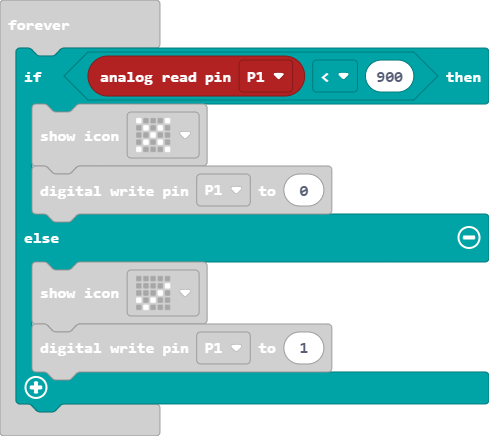
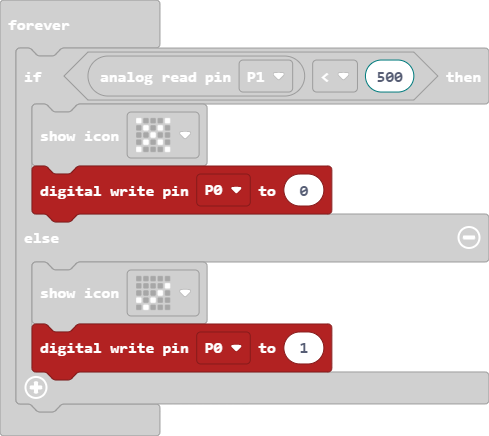
Update main.blocks, main.ts

diff --git a/main.ts b/main.ts
@@ -1,9 +1,9 @@
 basic.forever(function () {
-    if (pins.analogReadPin(AnalogPin.P1) < 900) {
+    if (pins.analogReadPin(AnalogPin.P1) < 500) {
         basic.showIcon(IconNames.No)
-        pins.digitalWritePin(DigitalPin.P1, 0)
+        pins.digitalWritePin(DigitalPin.P0, 0)
     } else {
         basic.showIcon(IconNames.Yes)
-        pins.digitalWritePin(DigitalPin.P1, 1)
+        pins.digitalWritePin(DigitalPin.P0, 1)
     }
 })
